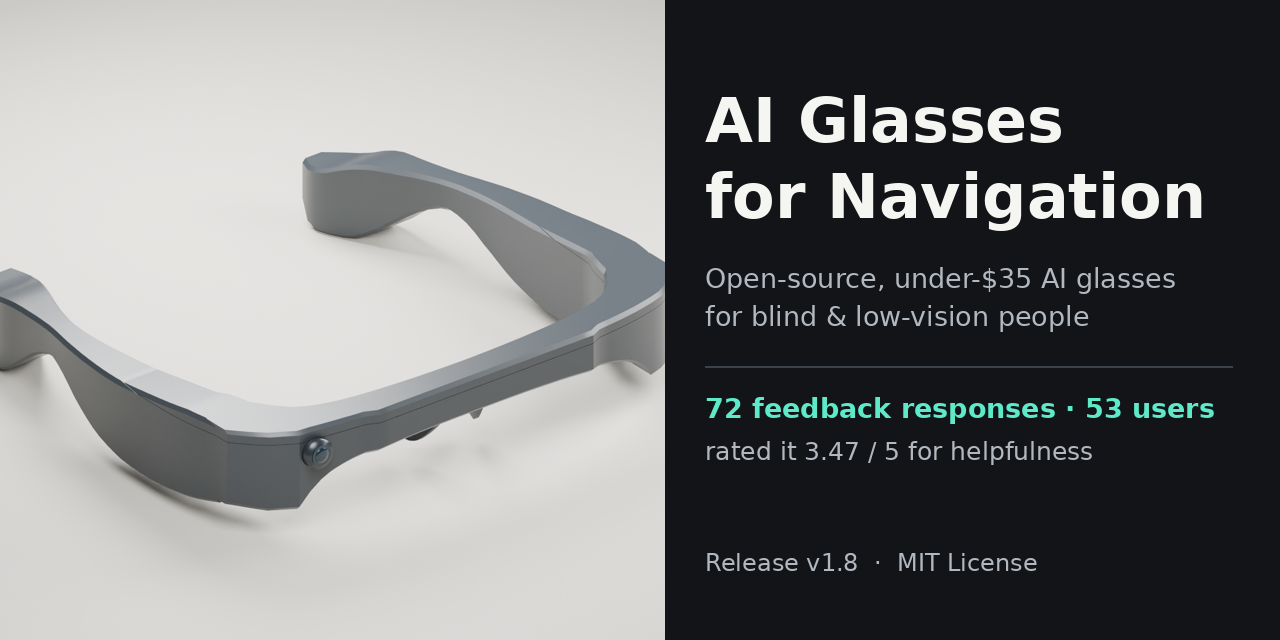
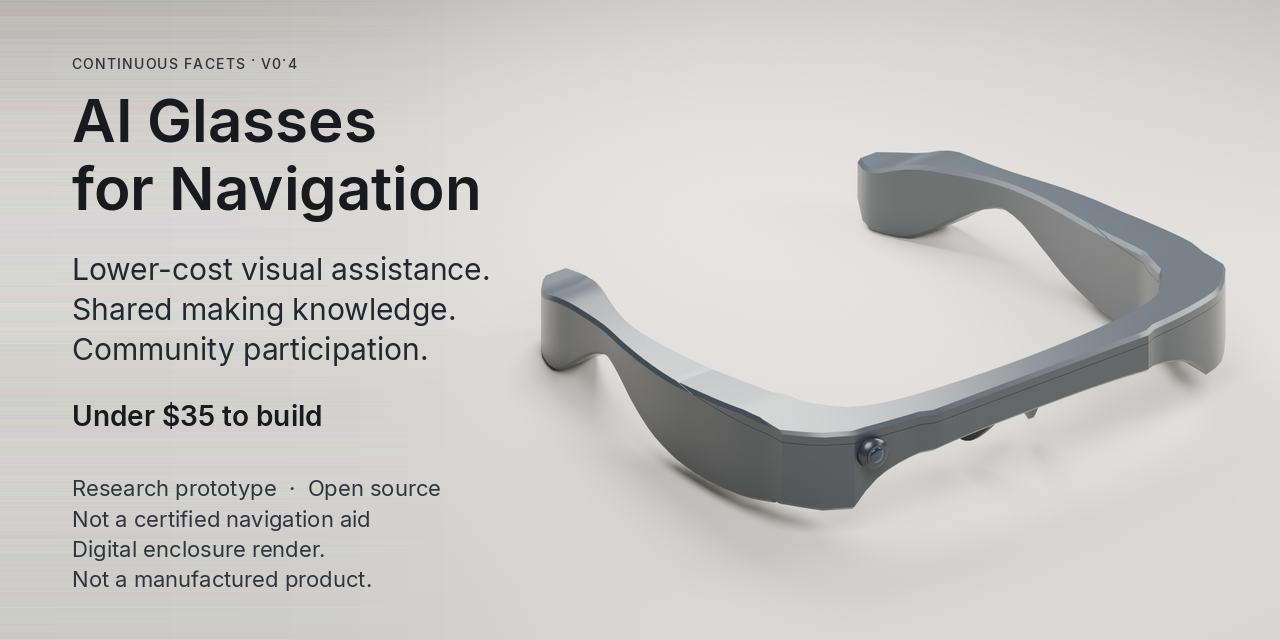
Add a GitHub social preview from the v0.4 enclosure render (#11)
The card uses the published Continuous Facets hero, not a photograph of a manufactured product, and records how to upload it in the repository social preview setting.

diff --git a/docs/SOCIAL_PREVIEW.md b/docs/SOCIAL_PREVIEW.md
@@ -1,0 +1,33 @@
+# Social preview
+
+The share image for this repository is [`assets/social-preview.png`](../assets/social-preview.png).
+
+GitHub does not read that file from the tree. After it is on the default branch, upload the same PNG under **Settings → General → Social preview**. The repository API does not reliably set this, so the upload stays a manual step. Replace the setting whenever the file in git changes, so the two copies do not drift.
+
+## File
+
+- Path: `assets/social-preview.png`
+- Size: 1280×640 pixels
+- PNG, RGB, solid background, no transparency
+- 413 KB
+
+## How it was made
+
+The enclosure is the published Continuous Facets v0.4 hero, [`assets/renders/01_hero.png`](../assets/renders/01_hero.png). That file is a Blender Cycles render of the digital enclosure. It is not a photograph of a manufactured product, and the card says so.
+
+The card places that render on the right and extends the render's own studio tone to the left, so the frame is 1280×640 without cropping the enclosure or inventing a new product shape. The words were drawn in Inter on top of that image. No separate product picture was generated.
+
+## Wording
+
+The lines are the ones already on the README's first screen, shortened only so they stay readable when a share card is shown around 600 pixels wide:
+
+- AI Glasses for Navigation
+- Lower-cost visual assistance. Shared making knowledge. Community participation.
+- Under $35 to build
+- Research prototype · Open source
+- Not a certified navigation aid
+- Digital enclosure render. Not a manufactured product.
+
+"Under $35 to build" is the existing phrase for the creator's US hardware estimate. It does not add a supplier quotation or a cost for fabricating v0.4. Scope stays as written in [Hardware cost](COMMUNITY_AND_COST.md#hardware-cost).
+
+The card is in English so those lines can stay large. The Chinese introduction is the [Chinese README](README.zh-CN.md).

diff --git a/docs/GALLERY.md b/docs/GALLERY.md
@@ -44,3 +44,7 @@ Perspective camera, revised lighting, material variation and more detailed gener
 ## Image provenance
 
 The concept drawing was made during design exploration. Every image above was subsequently rendered from the actual v0.4 mesh, with consistent geometry across angles. The scenes, [original nine-image manifest](../design/v0.4/render_manifest.json) and [two-image photography manifest](../design/v0.4/presentation/photography_manifest.json) are included so that others can inspect or reproduce them. No identifiable community participants or fabricated endorsements appear in this gallery.
+
+## Social preview
+
+[`assets/social-preview.png`](../assets/social-preview.png) is a 1280×640 card for link previews. It uses the hero render above, with the project name and the README's tagline set beside it. The enclosure is that Blender image, not a photograph of a manufactured product. GitHub does not take the file from the repository tree; upload steps are in [Social preview](SOCIAL_PREVIEW.md).
